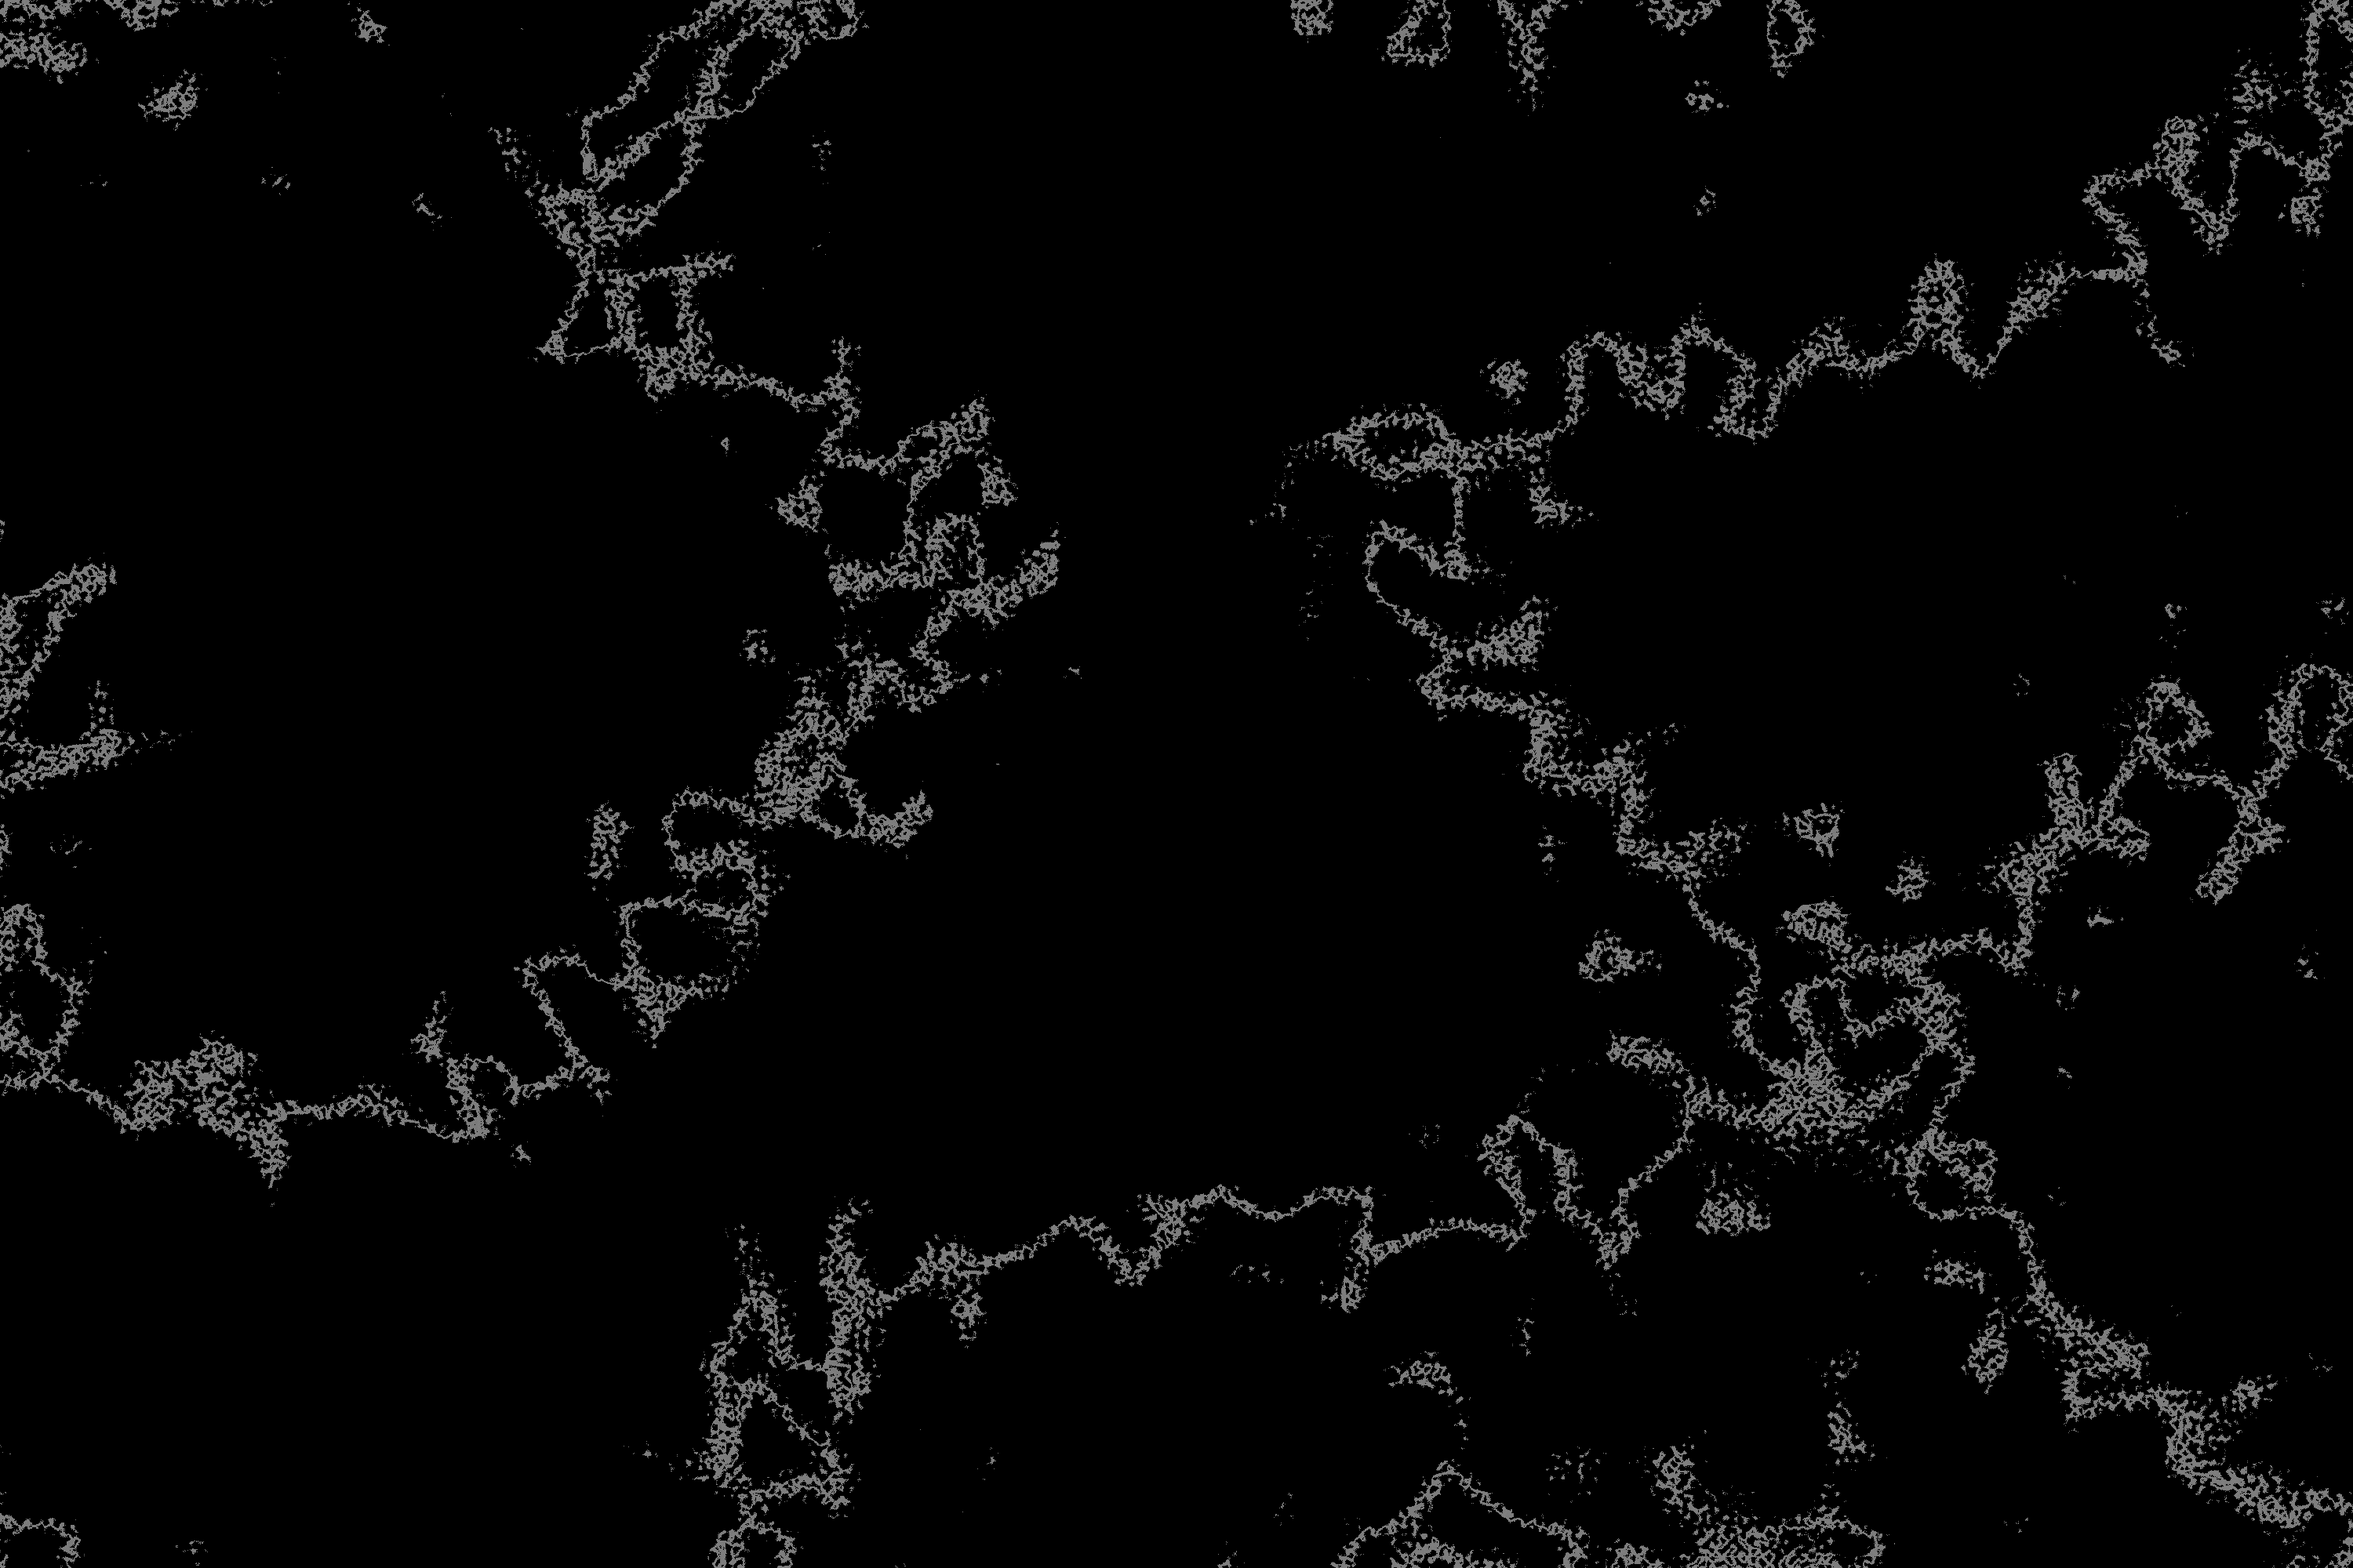
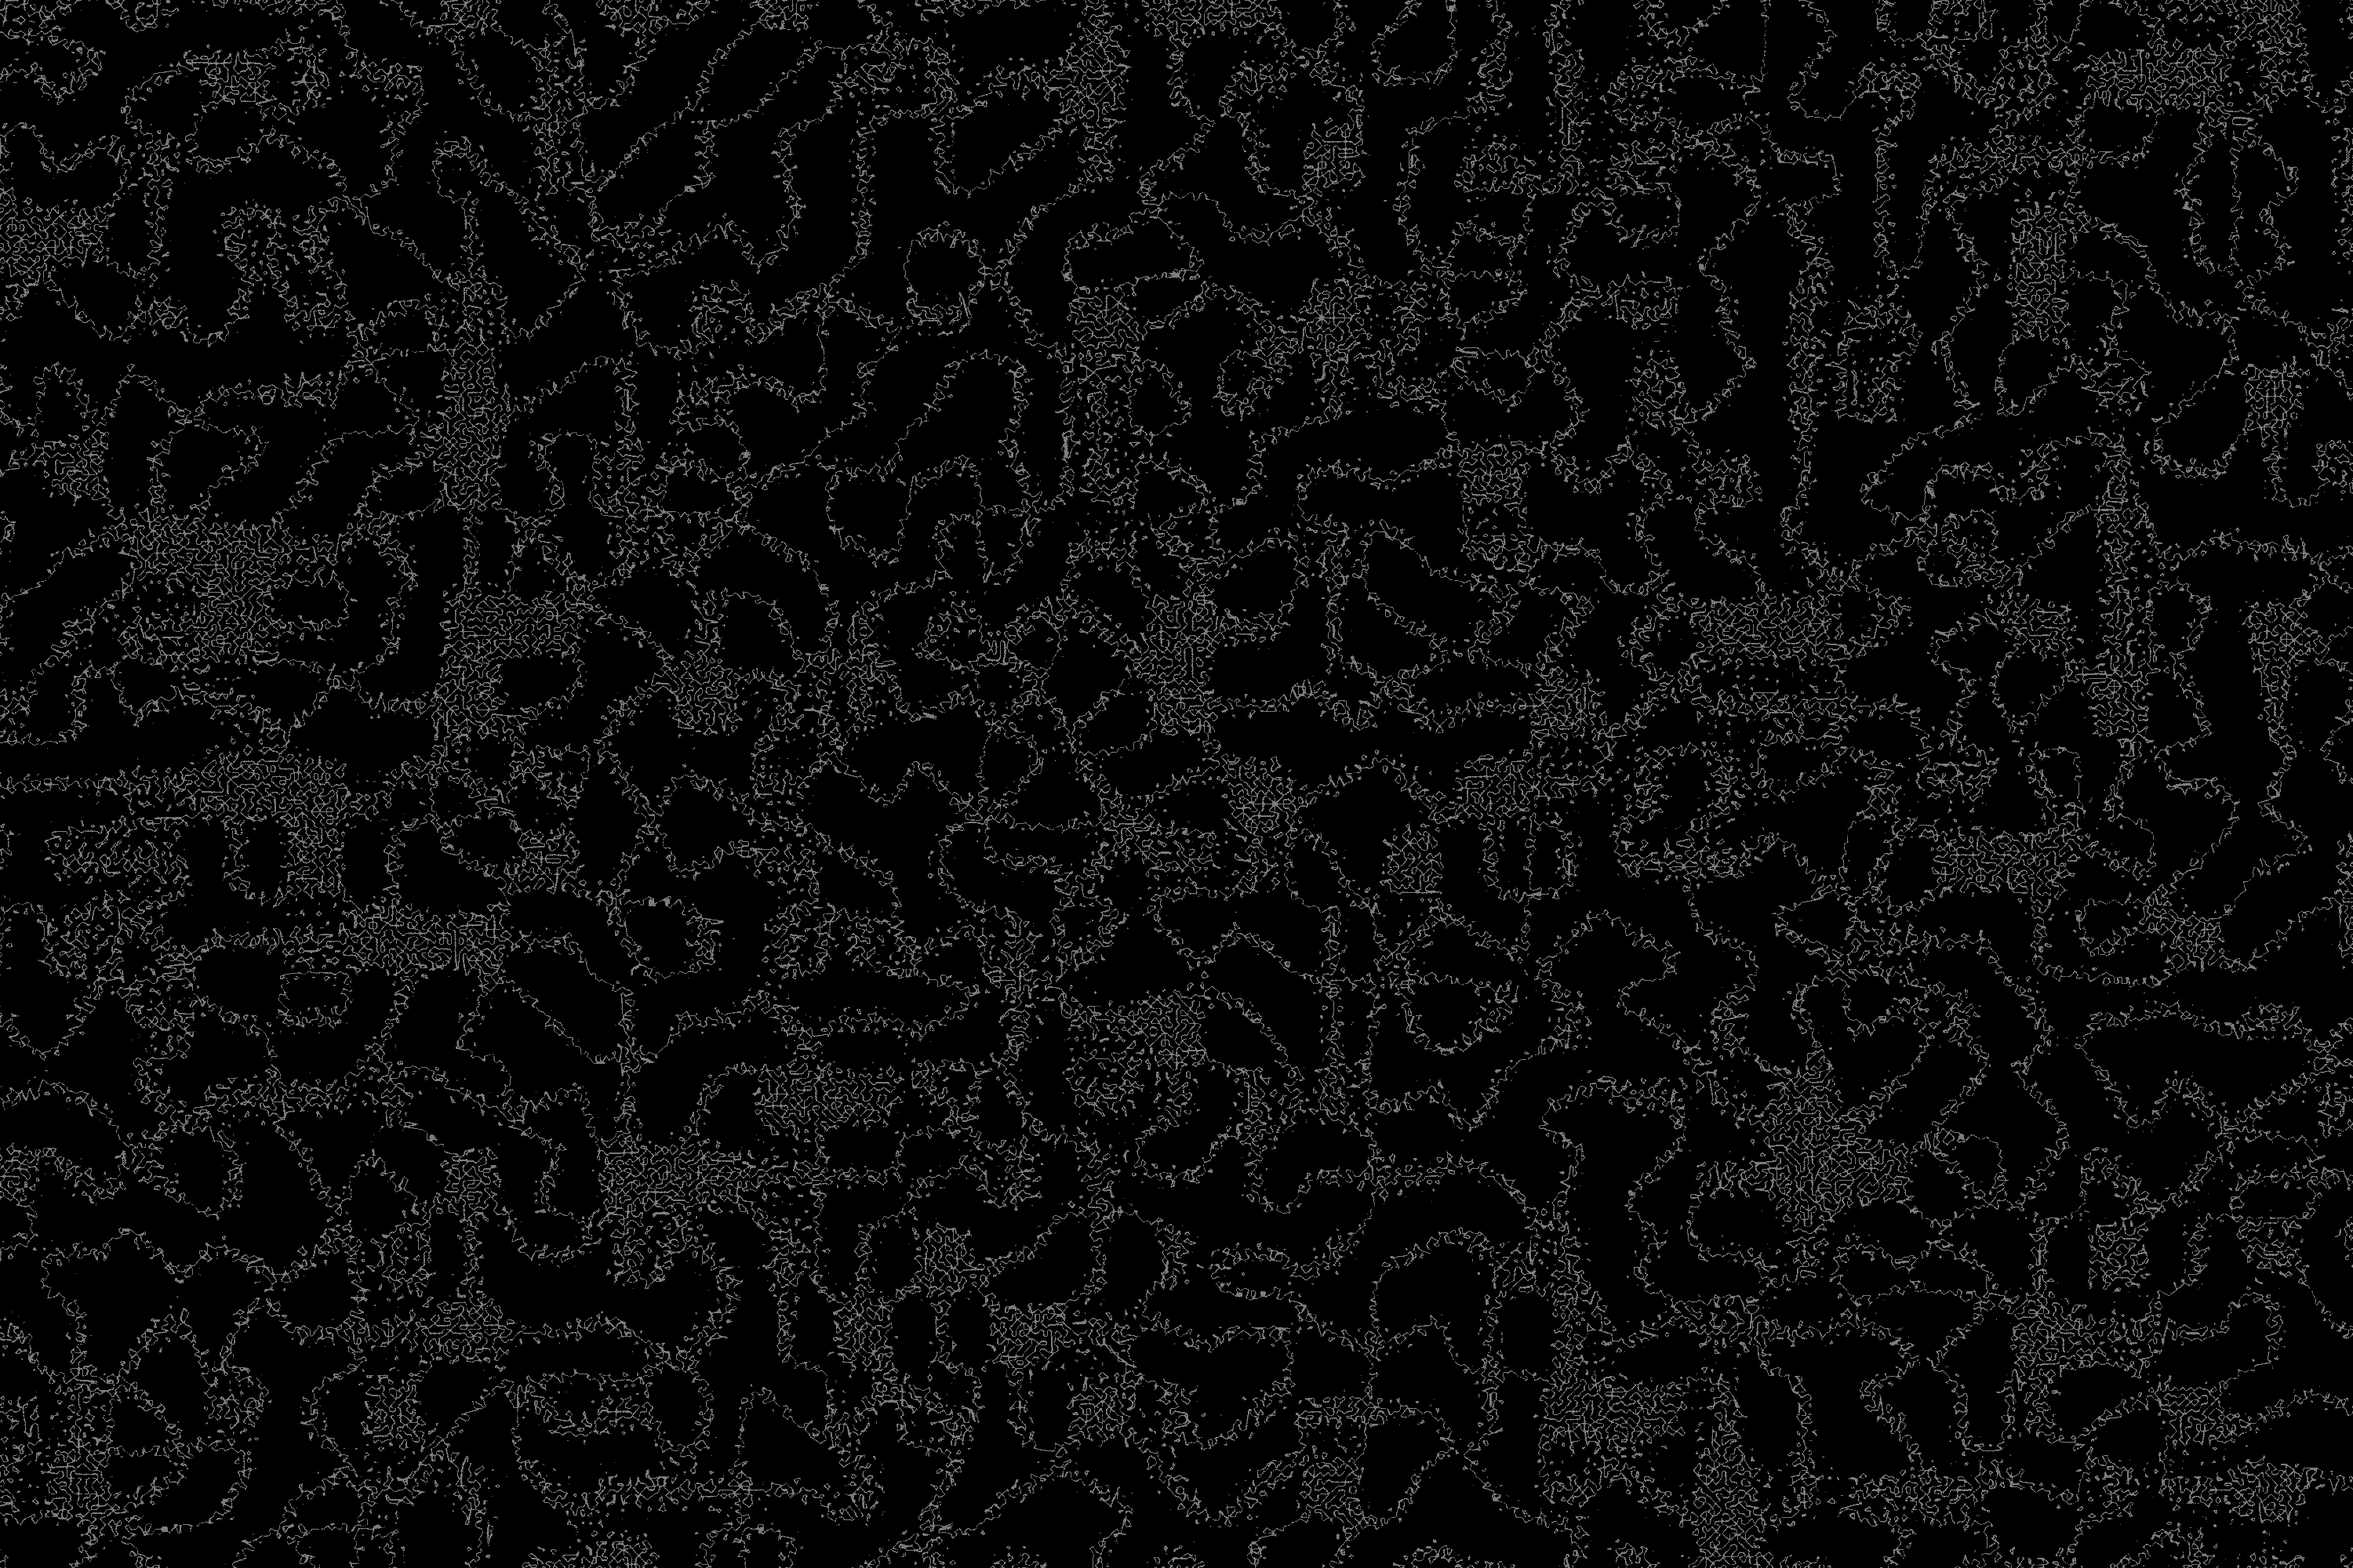
suite grottes

diff --git a/lib/src/test/java/procedural_generation/CaveTest.java b/lib/src/test/java/procedural_generation/CaveTest.java
@@ -17,50 +17,17 @@ public class CaveTest {
                     new ValueOperationNodeBuilder(
                             new WarpNodeBuilder(
                                     new AddNodeBuilder(
-                                            new ChangeLocationNodeBuilder(
-                                                    new ChangeSeedNodeBuilder(
-                                                            Operation.ADD,
-                                                            4,
-                                                            new NoiseMapBuilder(1)
-                                                    ),
-                                                    Operation.DIVIDE,
-                                                    Operation.DIVIDE,
-                                                    1000,
-                                                    1000
-                                            ),
-                                            new ChangeLocationNodeBuilder(
-                                                    new ChangeSeedNodeBuilder(
-                                                            Operation.ADD,
-                                                            3,
-                                                            new NoiseMapBuilder(1)
-                                                    ),
-                                                    Operation.DIVIDE,
-                                                    Operation.DIVIDE,
-                                                    100,
-                                                    100
-                                            ),
-                                            new ChangeLocationNodeBuilder(
-                                                    new ChangeSeedNodeBuilder(
-                                                            Operation.ADD,
-                                                            2,
-                                                            new NoiseMapBuilder(5)
-                                                    ),
-                                                    Operation.DIVIDE,
-                                                    Operation.DIVIDE,
-                                                    10,
-                                                    10
-                                            ),
-                                            new NoiseMapBuilder(1),
+                                            new NoiseMapBuilder(2),
                                             new ChangeSeedNodeBuilder(
                                                     Operation.ADD,
                                                     1,
-                                                    new NoiseMapBuilder(1)
+                                                    new NoiseMapBuilder(2)
                                             ),
                                             new ChangeLocationNodeBuilder(
                                                     new ChangeSeedNodeBuilder(
                                                             Operation.ADD,
                                                             5,
-                                                            new NoiseMapBuilder(0.5)
+                                                            new NoiseMapBuilder(1)
                                                     ),
                                                     Operation.MULTIPLY,
                                                     Operation.MULTIPLY,
@@ -77,17 +44,6 @@ public class CaveTest {
                                                     Operation.MULTIPLY,
                                                     100,
                                                     100
-                                            ),
-                                            new ChangeLocationNodeBuilder(
-                                                    new ChangeSeedNodeBuilder(
-                                                            Operation.ADD,
-                                                            7,
-                                                            new NoiseMapBuilder(0.2)
-                                                    ),
-                                                    Operation.MULTIPLY,
-                                                    Operation.MULTIPLY,
-                                                    1000,
-                                                    1000
                                             )
                                     ),
                                     0.0,
@@ -160,7 +116,7 @@ public class CaveTest {
                 int blue = 255 - color;
                 int green = 255 - color;
                 int red = 255 - color;
-                if (color > 135) {
+                if (color > 137) {
                     green = 0;
                     red = 0;
                     blue = 0;
